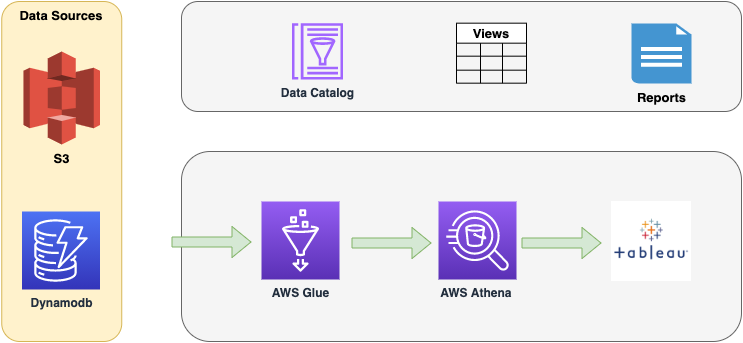
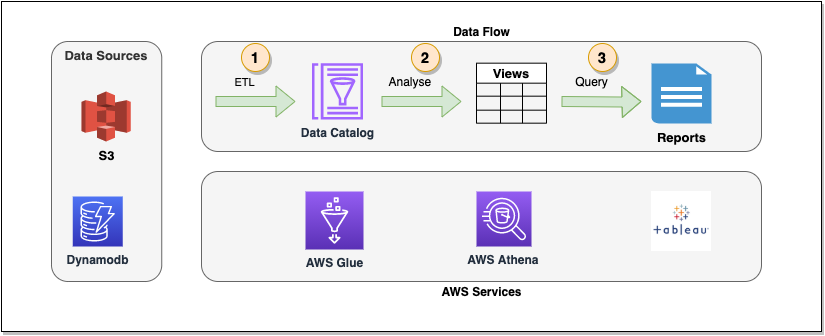
Add description and clean diagrams

diff --git a/Solution.md b/Solution.md
@@ -1,131 +1,187 @@
 # Solution
+This section describe the solution using basic diagrams with a briefing descriptions due to limited time. 
+
+
+
 ## Solution Overview
 
-TBA
+This solution focus on providing Farmacy Food with below capabilities: 
 
-- Serverless for custom components using API Gateway and Lambda ( Pay per Requests)
-- Cheap Analytics solution using AWS Glue and AWS Athena 
-- Use existing system like AWS Cognito and AWS Dynamo DB for Storage to avoid an addtional operational cost
+- Customer Engagment using a value-added services as well as modern community tools. 
+- Data Analytics solution support rapid change in business, customer needs and market.
+
+
 
 ## Constrains
 
-....
+The below constraints drives solution trade-off decisions:
 
-## Risks
+1. AWS is the platform for deployment as Farmacy Food Ordering System is deployed there.
+2. Reduce the opertional cost by reusing existing services when possible. 
+3. Budget is  limited
+4. Number of customer is hundreds
 
-...
+
 
 ## Data Model
 
+This diagram describe data model.
+
 ![data-model](diagrams/data_model.png)
 
-...
+The data model has three main domains:
+
+1. Customer Profile which will be configured using dynamic attributes. This will support the rapid changes to the customer profile including preference, edits and medical information. 
+2. Community which will track customer activites on community including membership on forums and classes. 
+3. Customer Segment which will  group customers by different segment using profile attributes like geographical zone, diet, income and behaviour.
+
+  There three domains shall be stored in a NOSQL format as structure will be changed rapidly.
+
+
 
 ## Components Diagram 
 
+This diagram describe system components and basic functionality.
+
 ![component_diagram](diagrams/component_diagram.png)
-
-...
-
-### Security
-
-- Integrate with existing AWS Cognito solution - User Pool as It is part of original solution   
-- Manage user account for Dietitian and Medical Provider
-- Provide Authentication  & Authorisation 
-
-### Cutomer Profile
-
-- Configure Profile Attributes 
-
-- Configure Medical tests
-
-- Create and View Customer Profiles
-
-- Customer can set Profile Privacy
-
-  
-
-### eDietian
-
-- Send Advice
-- Monitor Customer
 
 ### Notification
 
-- Emails
-- Newsletter Subscriptions
+This component will support communication with customers through different channels. It will be based on Amazon Simple Notification Service (SNS). 
+
+This component is already part of Farmacy Farm ordering system and will be reused in this solution. More details is available in [archcolider documentation](https://github.com/ldynia/archcolider/blob/master/3.ViewsAndPerspectives/infrastructure/Infrastructure-services-and-virtual-hardware.md#amazon-simple-notification-service-sns)
+
+### Security
+
+This component will support Authentication and Authorization for Dietitian and Medical Provider. It will be based on AWS Cognito used for transaction customer.
+
+This component is already part of Farmacy Farm ordering system and will be reused in this solution. More details is available in [archcolider documentation](https://github.com/ldynia/archcolider/blob/master/3.ViewsAndPerspectives/infrastructure/Authentication.md)
+
+### Onboarding
+
+This component will support onboarding of transactional customer on placing new order. This will be done based on customer segment. More details in Onboarding Sequence Diagram
+
+### Cutomer Profile
+
+This component will enable:
+
+1.  The customer of managing her/his profile including preference, diets and medical information.
+2. The customer of setting privacy per profile attribute.
+3. The dietian of viewing customer profile according to privacy setting.
+
+This component will be custom developed using serverless Architecture and will be exposed to client apps as a Restfull services.  The profile attributes configuration will be stored on AWS S3 with secured access.  
+
+### eDietian
+
+This component will support:
+
+- Assigning dietian to specific customer or a customer segment. 
+- Allow dietian of sending advice to customer
+
+### Medical Survey
+
+This component will enable:
+
+1. Creation of medical surveys.
+2. Filling medical surveys by customer 
+
+This component will be build using a server less application from AWS market place like [serverless-survey](https://serverlessrepo.aws.amazon.com/applications/us-east-1/194383749778/serverless-survey) Survey result will be automatically stored in Dynamo DB as part of customer profile.
+
+### Customer Segmentation 
+
+This component will be a regular cron job to calculated customer segmantion using profile attributes like geographical zone, diet, income and behaviour.
+
+### Community
+
+This component will be build using an open source tools in order to provide forum, classes, direct messaging and media library.
+
+An additional investigation is needed in order to select best applications considering above solution constrains. This can be covered as part of detail design decsions.
 
 ### Analytics
 
-- Geographical trend analysis
-- Medical Profile analysis
-- Customers Segmant analysis
+The analytics solution will support deifferent kind of analysis including Geographical trend analysis, Medical Report analysis and Customers Segmant analysis.
+
+More details in Analytics Sequence Diagram.
 
 ### Reports
 
 - View analysis Result by Medical Profile, Marketing
 
-### Community
+This component will support reports for clicncs, medical provider and marketing team. It will be using tableau.
 
-- forum (localized, temporal)
+This component is already part of Farmacy Farm ordering system and will be reused in this solution. More details is available in [archcolider documentation](https://github.com/ldynia/archcolider/blob/master/3.ViewsAndPerspectives/infrastructure/Infrastructure-services-and-virtual-hardware.md#amazon-simple-notification-service-sns)
 
-- Survey
-
-- Direct Messaging
-
-- in person / virtual events (localized, temporal)
-
-- classes (localized, temporal) and general wellness education (global, reference)
-
-- interactive media library (global, reference)
-
-  
+### 
 
 ## Sequence Diagrams
 
 ### Onboarding
 
+This diagram describe onboarding flow which will use Dynamo DB streams in order to detect placed orders by transactional customer. Once a new order is placed then it will select matching email template according ot customer segment, enrich it and send it to the customer.
+
 ![](diagrams/onboarding_flow.png)
 
-....
+
 
 ### Customer Segmentation
 
+This diagram describe the cron job flow to calculate customer segment regualry and store it in Dynamo DB. This will be implemented using AWS Step functions which will be composed on multiple Lambda function.  AWS Step functions will provide a well-organised structure and minimise logic for each lambda functions. 
+
 ![](diagrams/customer_segmentation.png)
-
-### Analytics
-
-![](diagrams/analytics.png)
-
-...
 
 ### Medical Test
 
-...
+This diagram describe how medical test will be filled by customer and integrated with Customer Profile in Dynamo DB.
 
-## Physical Architecture
+![img](file:///Users/amakhalil/Documents/GitHub/berlin-bears/diagrams/medical_reports.png?lastModify=1635717343)
 
-...
+### Analytics
 
-## Design Decisions 
+This diagram describe the analytic flow starting from extract, transform and load of data using AWS Glue, going through analysis using AWS Athena queries and finally sharing result using tableau reports.
+
+![](diagrams/analytics.png)
+
+
+
+## ADRs 
+
+### New Custom-Build Components
+
+|                  |                                                              |
+| :--------------- | ------------------------------------------------------------ |
+| **Context**      | Solution will introduct new custom-build components like customer profile and customer segments.  This module can follow **modularized monolith** or being designed as **Serverless** services |
+| **Decision**     | The decsion was to go for serverless due to expected changes in requirement for customer profile and customer segment. This solution is more like testing water and need to be easy to extended. |
+| **Consequences** | Use AWS serverless solution including AWS API Gateway and Lambda .<br /> **Positive**: Low deployment cost as price will be per request, easy to change and deploy as business logic is splitted into many Lambda functions <br /> **Negatives** additional operational cost, Development team might lack experiance. |
 
 ### Data Storage
 
-Dynamo DB vs RDS
+|                  |                                                              |
+| :--------------- | ------------------------------------------------------------ |
+| **Context**      | Solution will introduct new data like customer profile, engagment and customer segments.  This data can be stored on a relational database or use an NOSQL Dynamo DB . |
+| **Decision**     | The decsion was to go for NOSQL database as data structure will changed rapidly |
+| **Consequences** | Use existing Dynamo DB used for ordering event storage.<br /> **Positive**: No operational cost, Development team has experience in Dynamo DB<br /> |
+
+
 
 ### Customer Segmantion
 
-Scheduled  job vs immediate calculation 
+|                  |                                                              |
+| :--------------- | ------------------------------------------------------------ |
+| **Context**      | Solution will introduct customer segmentation calculation in order to used it in onboarding and analytics. The calculation can run immediately on any changes on customer profile or just run as a batch on regular daily basis. |
+| **Decision**     | The decsion was to go for running as a batch on regular daily basis but Implementation of AWS Step functions need to support working on single customer or batch. |
+| **Consequences** | Configure cron job using AWS Cloud Watch<br /> **Positive**: Less read and write operation on database <br />**Negative**: There will be a delay on reflecting profile changes on customer segment. |
 
-### Custom Modules
 
-Serverless vs Monolithic 
 
-## Quality Of Service (QoS)
+## Risks
 
-- Security
+1. Lack of knowledge in AWS Serverless technology
+2. Lack of knowledge in AWS Analytics technology
+
+### Quality Of Service (QoS)
+
+- Security 
 - Extendability 
 - Scalability 
 - Performance
-- Reliability
 
